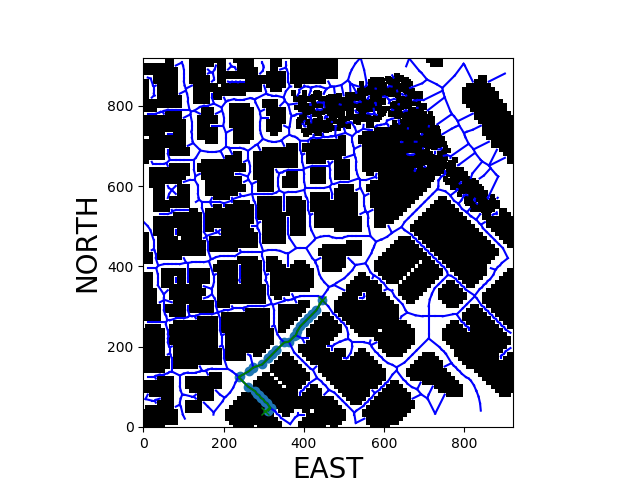
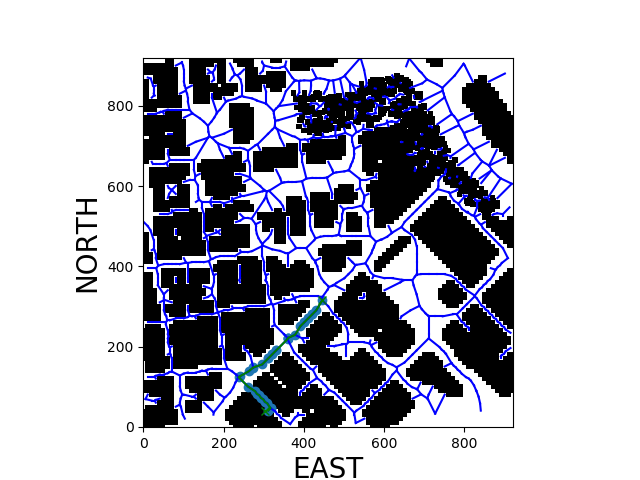
final

diff --git a/motion_planning.py b/motion_planning.py
@@ -46,7 +46,7 @@ class MotionPlanning(Drone):
 
     def local_position_callback(self):
         if self.flight_state == States.TAKEOFF:
-            print('local_position: {}, target_position: {}'.format(self.local_position, self.target_position))
+            # print('local_position: {}, target_position: {}'.format(self.local_position, self.target_position))
             if -1.0 * self.local_position[2] > 0.95 * self.target_position[2]:
                 self.waypoint_transition()
         elif self.flight_state == States.WAYPOINT:
@@ -64,7 +64,7 @@ class MotionPlanning(Drone):
                     self.disarming_transition()
 
     def state_callback(self):
-        print('state_callback: flight_state: {}'.format(self.flight_state))
+        # print('state_callback: flight_state: {}'.format(self.flight_state))
         if self.in_mission:
             if self.flight_state == States.MANUAL:
                 self.arming_transition()
@@ -78,39 +78,42 @@ class MotionPlanning(Drone):
                     self.manual_transition()
 
     def arming_transition(self):
-        self.flight_state = States.ARMING
         print("arming transition")
-        self.arm()
         self.take_control()
+        self.arm()
+        self.set_home_position(self.global_position[0], self.global_position[1],
+                               self.global_position[2])  # set the current location to be the home position
+        self.flight_state = States.ARMING
+
 
     def takeoff_transition(self):
-        self.flight_state = States.TAKEOFF
-        print("takeoff transition")
+        print("takeoff transition: target_position: {}".format(self.target_position))
         self.takeoff(self.target_position[2])
+        self.flight_state = States.TAKEOFF
 
     def waypoint_transition(self):
-        self.flight_state = States.WAYPOINT
         print("waypoint transition")
         self.target_position = self.waypoints.pop(0)
         print('target position', self.target_position)
         self.cmd_position(self.target_position[0], self.target_position[1], self.target_position[2], self.target_position[3])
+        self.flight_state = States.WAYPOINT
 
     def landing_transition(self):
-        self.flight_state = States.LANDING
         print("landing transition")
         self.land()
+        self.flight_state = States.LANDING
 
     def disarming_transition(self):
-        self.flight_state = States.DISARMING
         print("disarm transition")
         self.disarm()
         self.release_control()
+        self.flight_state = States.DISARMING
 
     def manual_transition(self):
-        self.flight_state = States.MANUAL
         print("manual transition")
         self.stop()
         self.in_mission = False
+        self.flight_state = States.MANUAL
 
     def send_waypoints(self):
         print("Sending waypoints to simulator ...")
@@ -120,7 +123,7 @@ class MotionPlanning(Drone):
     def plan_path(self):
         self.flight_state = States.PLANNING
         print("Searching for a path ...")
-        TARGET_ALTITUDE = 3
+        TARGET_ALTITUDE = 10
         SAFETY_DISTANCE = 5
 
         self.target_position[2] = TARGET_ALTITUDE
@@ -168,6 +171,10 @@ class MotionPlanning(Drone):
         grid_start = (int(np.ceil(n_loc - north_offset)), int(np.ceil(e_loc - east_offset)))
         graph_start = closest_point(G, grid_start)
         print('grid_start: {}, graph_start: {}'.format(grid_start, graph_start))
+
+        # # redefine home so that the drone does not spawn inside a building
+        # lat1, lon1, alt1 = local_to_global((grid_start[0], grid_start[1], 0.), self.global_home)
+        # self.set_home_position(lon1, lat1, alt1)
         
         # Set goal as some arbitrary position on the grid
         # DONE: adapt to set goal as latitude / longitude position and convert
@@ -192,7 +199,7 @@ class MotionPlanning(Drone):
         # TODO (if you're feeling ambitious): Try a different approach altogether!
 
         # Convert path to waypoints
-        waypoints = [[p[0] + north_offset, p[1] + east_offset, TARGET_ALTITUDE, 0] for p in pruned_path]
+        waypoints = [[int(p[0] + north_offset), int(p[1] + east_offset), TARGET_ALTITUDE, 0] for p in pruned_path]
         print('waypoints: {}'.format(waypoints))
         
         # Set self.waypoints

diff --git a/planning_utils.py b/planning_utils.py
@@ -181,7 +181,7 @@ def a_star(graph, h, start, goal):
         else:              
             current_cost = branch[current_node][0]
             
-        print('current_node: {}, goal: {}'.format(current_node, goal))
+        # print('current_node: {}, goal: {}'.format(current_node, goal))
         if current_node == goal:        
             print('Found a path.')
             found = True
@@ -238,7 +238,7 @@ def closest_point(graph, current_point):
 
     return closest_point
 
-def collinearity_check(p1, p2, p3, epsilon=1e-6):   
+def collinearity_check(p1, p2, p3, epsilon=1e-3):   
     m = np.concatenate((p1, p2, p3), 0)
     det = np.linalg.det(m)
     return abs(det) < epsilon

diff --git a/writeup_template.md b/writeup_template.md
@@ -37,8 +37,9 @@ Upon a `LOCAL_VELOCITY` event received, the flight state is checked to see if th
 Upon a `STATE` event received, if the drone is in mission and the state is one of `MANUAL`, `ARMING` (and armed), `PLANNING`, or `DISARMING` (and not armed or guided), the state machine as described previously is transitioned.
 
 The functionality that occurs on each state change event is as follows:
+
 | State From | Guard | State To |
-| === | === | === | === |
+| --- | --- | --- |
 | `MANUAL` | in mission. | `ARMING` | 
 | `ARMING` | in mission, and armed. | `PLANNING` |
 | `PLANNING` | in mission. | `TAKEOFF` |
@@ -60,32 +61,131 @@ The `planning_utils.py` script contains a number of functions/enum related to ar
 #### 1. Set your global home position
 *Here students should read the first line of the csv file, extract lat0 and lon0 as floating point values and use the self.set_home_position() method to set global home. Explain briefly how you accomplished this in your code.*
 
-The 1st line of the `colliders.csv` file contains a latitude and longitude which are the coordinates of the center of the map. This is in the format of `lat0 <latitude>, lon0 <longitude>`. Within the code I opened the file, read the first line, then split the string appropriately to retrieve the latitude and longitude values. These were then passed ` self.set_home_position(lon0, lat0, 0)` to initialize the home position.
+The 1st line of the `colliders.csv` file contains a latitude and longitude which are the coordinates of the center of the map. This is in the format of `lat0 <latitude>, lon0 <longitude>`. I programatically opened the file, read the first line, then split the string appropriately to retrieve the latitude and longitude values. These were then passed as `self.set_home_position(lon0, lat0, alt0)` to initialize the home position.
 
 #### 2. Set your current local position
 *Here as long as you successfully determine your local position relative to global home you'll be all set. Explain briefly how you accomplished this in your code.*
 
+Following on from the previous step I first test that my globsl position is as expected:
 
-Meanwhile, here's a picture of me flying through the trees!
-![Forest Flying](./misc/in_the_trees.png)
+```python
+        # DONE: retrieve current global position
+        print('global_position: {}'.format(self.global_position))
+```
+
+From here I use the provided `global_to_local()` function to convert to local (NED) position:
+
+```python
+        # DONE: convert to current local position using global_to_local()
+        n_loc, e_loc, d_loc = global_to_local(self.global_position, self.global_home)
+        print('n_loc: {}, e_loc: {}, d_loc: {}'.format(n_loc, e_loc, d_loc))
+
+        print('global home {0}, position {1}, local position {2}'.format(self.global_home, self.global_position,
+                                                                         self.local_position))
+```
 
 #### 3. Set grid start position from local position
-This is another step in adding flexibility to the start location. As long as it works you're good to go!
+*This is another step in adding flexibility to the start location. As long as it works you're good to go!*
+
+As part of defining my grid, I return the north and east offsets:
+
+```python
+        # Define a grid for a particular altitude and safety margin around obstacles
+        grid, edges, north_offset, east_offset = create_grid_and_edges(data, TARGET_ALTITUDE, SAFETY_DISTANCE)
+        
+```
+
+Using these offsets I calculate the start on the grid:
+
+```python
+        grid_start = (int(np.ceil(n_loc - north_offset)), int(np.ceil(e_loc - east_offset)))
+```
+
+As I'm using a graph to represent my configuration space, I find the closet point within my graph to use as a start location:
+
+```python
+        graph_start = closest_point(G, grid_start)
+```
 
 #### 4. Set grid goal position from geodetic coords
-This step is to add flexibility to the desired goal location. Should be able to choose any (lat, lon) within the map and have it rendered to a goal location on the grid.
+*This step is to add flexibility to the desired goal location. Should be able to choose any (lat, lon) within the map and have it rendered to a goal location on the grid.*
+
+Using Google Maps I manually chose a goal:
+
+```python
+        super_duper_burgers = (-122.39400878361174, 37.792827005959616, 0.)
+        grid_goal_global = super_duper_burgers 
+```
+
+I converted the geodetic coords to local coords:
+
+```python
+        grid_goal_local = global_to_local(grid_goal_global , self.global_home)
+```
+
+Then finally found the closets point to the goal within my graph:
+
+```python
+        graph_goal = closest_point(G, (grid_goal_local[0], grid_goal_local[1]))
+```
+
 
 #### 5. Modify A* to include diagonal motion (or replace A* altogether)
-Minimal requirement here is to modify the code in planning_utils() to update the A* implementation to include diagonal motions on the grid that have a cost of sqrt(2), but more creative solutions are welcome. Explain the code you used to accomplish this step.
+*Minimal requirement here is to modify the code in planning_utils() to update the A* implementation to include diagonal motions on the grid that have a cost of sqrt(2), but more creative solutions are welcome. Explain the code you used to accomplish this step.*
+
+Instead of modifying A* to include diagonal motions, I refactored it to support a graph.  The differences are as follows:
+
+Modified the function parameters to pass in a graph instead of grid.
+
+```python
+    def a_star(graph, h, start, goal):
+```
+
+Modified the section of code that used to loop through valid actions to instead loop through all connected nodes of the current node in context, and obtain the cost stored as *weight*
+
+```python
+
+            for next_node in graph[current_node]:
+                cost = graph.edges[current_node, next_node]['weight']
+                branch_cost = current_cost + cost
+                queue_cost = branch_cost + h(next_node, goal)
+```
 
 #### 6. Cull waypoints 
-For this step you can use a collinearity test or ray tracing method like Bresenham. The idea is simply to prune your path of unnecessary waypoints. Explain the code you used to accomplish this step.
+*For this step you can use a collinearity test or ray tracing method like Bresenham. The idea is simply to prune your path of unnecessary waypoints. Explain the code you used to accomplish this step.*
 
+I chose to perform a collinearity check in determining which waypoints to prune. As I'm using a graph, I used a larger epsilon of `1e-3`:
 
+```python
+def collinearity_check(p1, p2, p3, epsilon=1e-3):   
+    m = np.concatenate((p1, p2, p3), 0)
+    det = np.linalg.det(m)
+    return abs(det) < epsilon
+
+def prune_path(path):
+    pruned_path = [p for p in path]
+    i = 0
+    while i < len(pruned_path) - 2:
+        p1 = point(pruned_path[i])
+        p2 = point(pruned_path[i+1])
+        p3 = point(pruned_path[i+2])
+        if collinearity_check(p1, p2, p3):
+            pruned_path.remove(pruned_path[i+1])
+        else:
+            i += 1
+    return pruned_path
+
+def point(p):
+    return np.array([p[0], p[1], 1.]).reshape(1, -1)
+```
 
 ### Execute the flight
 #### 1. Does it work?
 It works!
+
+The following is a representation of the path identified:
+
+![map](pruned_path.png)
 
 ### Double check that you've met specifications for each of the [rubric](https://review.udacity.com/#!/rubrics/1534/view) points.
   
